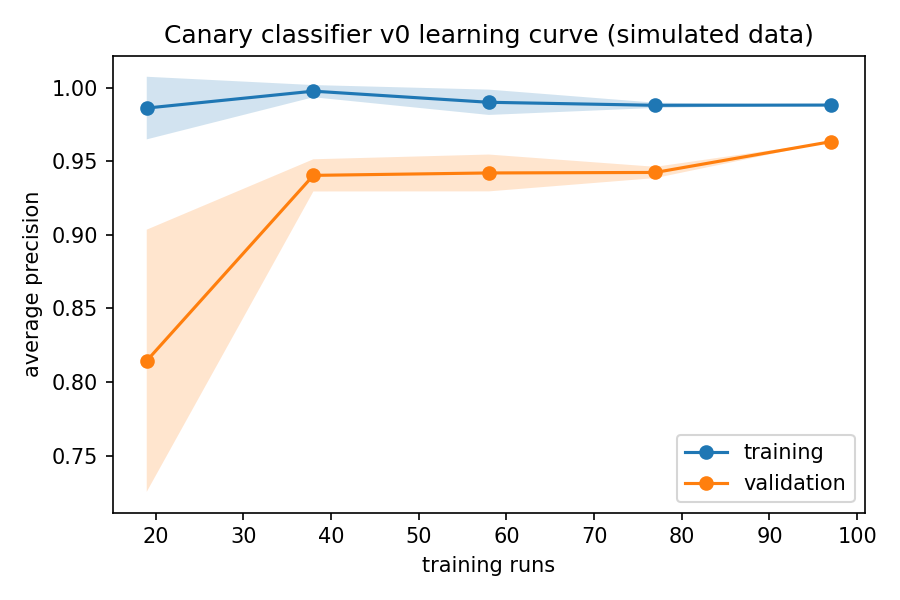
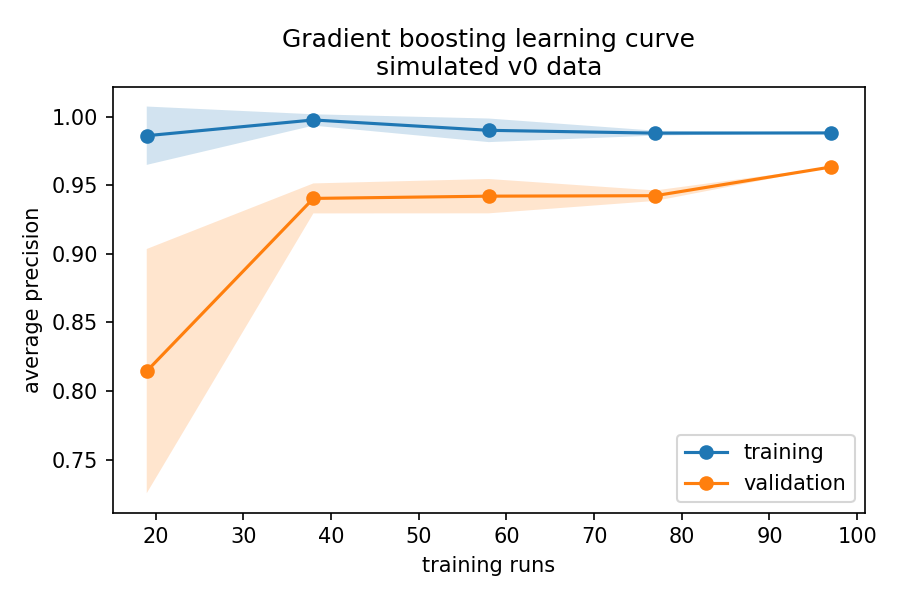
Refs T3-103: add EDA plots and record inference time
Add plots.py (class balance, correlation, feature distributions). train.py now reports the top validation model (gradient boosting, val AP 0.963 vs 0.948 for best logreg), titles the learning curve by model, and saves ms_per_window and model version to compute.json. Results regenerated.

diff --git a/agents/classifier/plots.py b/agents/classifier/plots.py
@@ -1,0 +1,84 @@
+"""Data statistics plots for Workbook 2, section 3.6.
+
+Run from the repo root after simulate.py and features.py:
+    python agents/classifier/plots.py
+Writes three PNGs to agents/classifier/results/.
+"""
+import os
+
+import matplotlib
+
+matplotlib.use("Agg")  # save images without a screen (dev container)
+import matplotlib.pyplot as plt
+import numpy as np
+import pandas as pd
+
+from features import FEATURES
+
+DATA = "agents/classifier/data"
+OUT = "agents/classifier/results"
+os.makedirs(OUT, exist_ok=True)
+
+feat = pd.read_csv(f"{DATA}/features.csv")
+runs = pd.read_csv(f"{DATA}/runs.csv")
+
+HEALTHY, FAULTY = "#4C78A8", "#E45756"
+
+
+# 1. Imbalance: windows by label, and runs by class
+fig, axes = plt.subplots(1, 2, figsize=(10, 4))
+
+counts = feat.label.value_counts().sort_index()
+bars = axes[0].bar(["healthy (0)", "faulty (1)"], counts.values, color=[HEALTHY, FAULTY])
+axes[0].bar_label(bars, labels=[f"{v} ({v / counts.sum():.1%})" for v in counts.values])
+axes[0].set_title("Windows by label")
+axes[0].set_ylabel("windows")
+
+order = ["healthy", "harmless", "borderline", "bad"]
+run_counts = runs.run_class.value_counts().reindex(order)
+bars = axes[1].bar(order, run_counts.values, color=[HEALTHY, HEALTHY, "#F2A93B", FAULTY])
+axes[1].bar_label(bars)
+axes[1].set_title("Runs by class")
+axes[1].set_ylabel("runs")
+
+fig.suptitle("Class balance (simulated v0 data)")
+fig.tight_layout()
+fig.savefig(f"{OUT}/class_balance.png", dpi=150)
+plt.close(fig)
+
+
+# 2. Distributions: key features, healthy vs faulty windows
+key = ["p95_ratio", "p50_ratio", "error_rate_diff", "worst_route_error_diff"]
+fig, axes = plt.subplots(2, 2, figsize=(10, 7))
+for ax, col in zip(axes.ravel(), key):
+    bins = np.linspace(feat[col].min(), feat[col].max(), 30)
+    ax.hist(feat.loc[feat.label == 0, col], bins=bins, alpha=0.6, color=HEALTHY, label="healthy (0)")
+    ax.hist(feat.loc[feat.label == 1, col], bins=bins, alpha=0.6, color=FAULTY, label="faulty (1)")
+    ax.set_title(col)
+    ax.set_ylabel("windows")
+axes[0, 0].legend()
+fig.suptitle("Feature distributions by label (simulated v0 data)")
+fig.tight_layout()
+fig.savefig(f"{OUT}/feature_distributions.png", dpi=150)
+plt.close(fig)
+
+# 3. Correlation: every feature and the label, as a heatmap
+corr = feat[FEATURES + ["label"]].corr()
+fig, ax = plt.subplots(figsize=(9, 8))
+im = ax.imshow(corr, cmap="RdBu_r", vmin=-1, vmax=1)
+ax.set_xticks(range(len(corr)))
+ax.set_xticklabels(corr.columns, rotation=60, ha="right")
+ax.set_yticks(range(len(corr)))
+ax.set_yticklabels(corr.columns)
+for i in range(len(corr)):
+    for j in range(len(corr)):
+        v = corr.iloc[i, j]
+        ax.text(j, i, f"{v:.2f}", ha="center", va="center", fontsize=7,
+                color="white" if abs(v) > 0.6 else "black")
+fig.colorbar(im, ax=ax, shrink=0.8, label="Pearson correlation")
+ax.set_title("Correlation between features and label (simulated v0 data)")
+fig.tight_layout()
+fig.savefig(f"{OUT}/correlation.png", dpi=150)
+plt.close(fig)
+
+print(f"Saved class_balance.png, feature_distributions.png and correlation.png to {OUT}")

diff --git a/agents/classifier/train.py b/agents/classifier/train.py
@@ -85,10 +85,11 @@ for name, grid in GRIDS.items():
 # 9. store hyperparameters in table
 search = pd.DataFrame(results).sort_values("val_ap", ascending=False)       # hyperparameter table
 print(search.drop(columns="params").head(6).to_string(index=False))
+print(search[search.model == "logreg"].sort_values("val_ap", ascending=False).to_string(index=False))   # terminal output
 print(f"{len(search)} fits, {search.fit_seconds.sum():.1f} s total")        # display total time taken by task
 
 # 10. retrieve best vaildation score from hyperparameters table
-best = search.iloc[0]                                   # top row = best validation score
+best = search.iloc[0]          # top row = best validation score
 train_val = pd.concat([train, val])         # combine train and validation data to train final model, test data untouched
 final = make_model(best["model"], best["params"])
 final.fit(train_val[FEATURES], train_val.label)
@@ -178,6 +179,9 @@ mean = curve.groupby("train_runs")[["train_ap", "val_ap"]].mean()
 std = curve.groupby("train_runs")[["train_ap", "val_ap"]].std()
 print(mean.round(3))
 
+# dictionary of model names
+MODEL_NAMES = {"logreg": "Logistic regression", "gboost": "Gradient boosting"}
+
 # plot: one line per score, with a shaded band of plus or minus one standard deviation
 fig, ax = plt.subplots(figsize=(6, 4))
 for col, label in [("train_ap", "training"), ("val_ap", "validation")]:
@@ -185,10 +189,17 @@ for col, label in [("train_ap", "training"), ("val_ap", "validation")]:
     ax.fill_between(mean.index, mean[col] - std[col], mean[col] + std[col], alpha=0.2)
 ax.set_xlabel("training runs")
 ax.set_ylabel("average precision")
-ax.set_title("Canary classifier v0 learning curve (simulated data)")
+ax.set_title(f"{MODEL_NAMES[best['model']]} learning curve\nsimulated v0 data")
 ax.legend()
 fig.tight_layout()
 fig.savefig(f"{OUT}/learning_curve.png", dpi=150)
+
+# record ms per window
+t0 = time.perf_counter()
+for _ in range(100):
+    final.predict_proba(val[FEATURES])
+ms_per_window = (time.perf_counter() - t0) / (100 * len(val)) * 1000
+print(f"{MODEL_NAMES[best['model']]} inference: {ms_per_window:.4f} ms/window")
 
 # compute consumed
 compute = {
@@ -197,6 +208,8 @@ compute = {
     "hardware": platform.platform(),
     "cpus": os.cpu_count(),
     "python": platform.python_version(),
+    "ms_per_window": round(ms_per_window, 4),
+    "model": best["model"],
 }
 with open(f"{OUT}/compute.json", "w") as f:
     json.dump(compute, f, indent=2)
